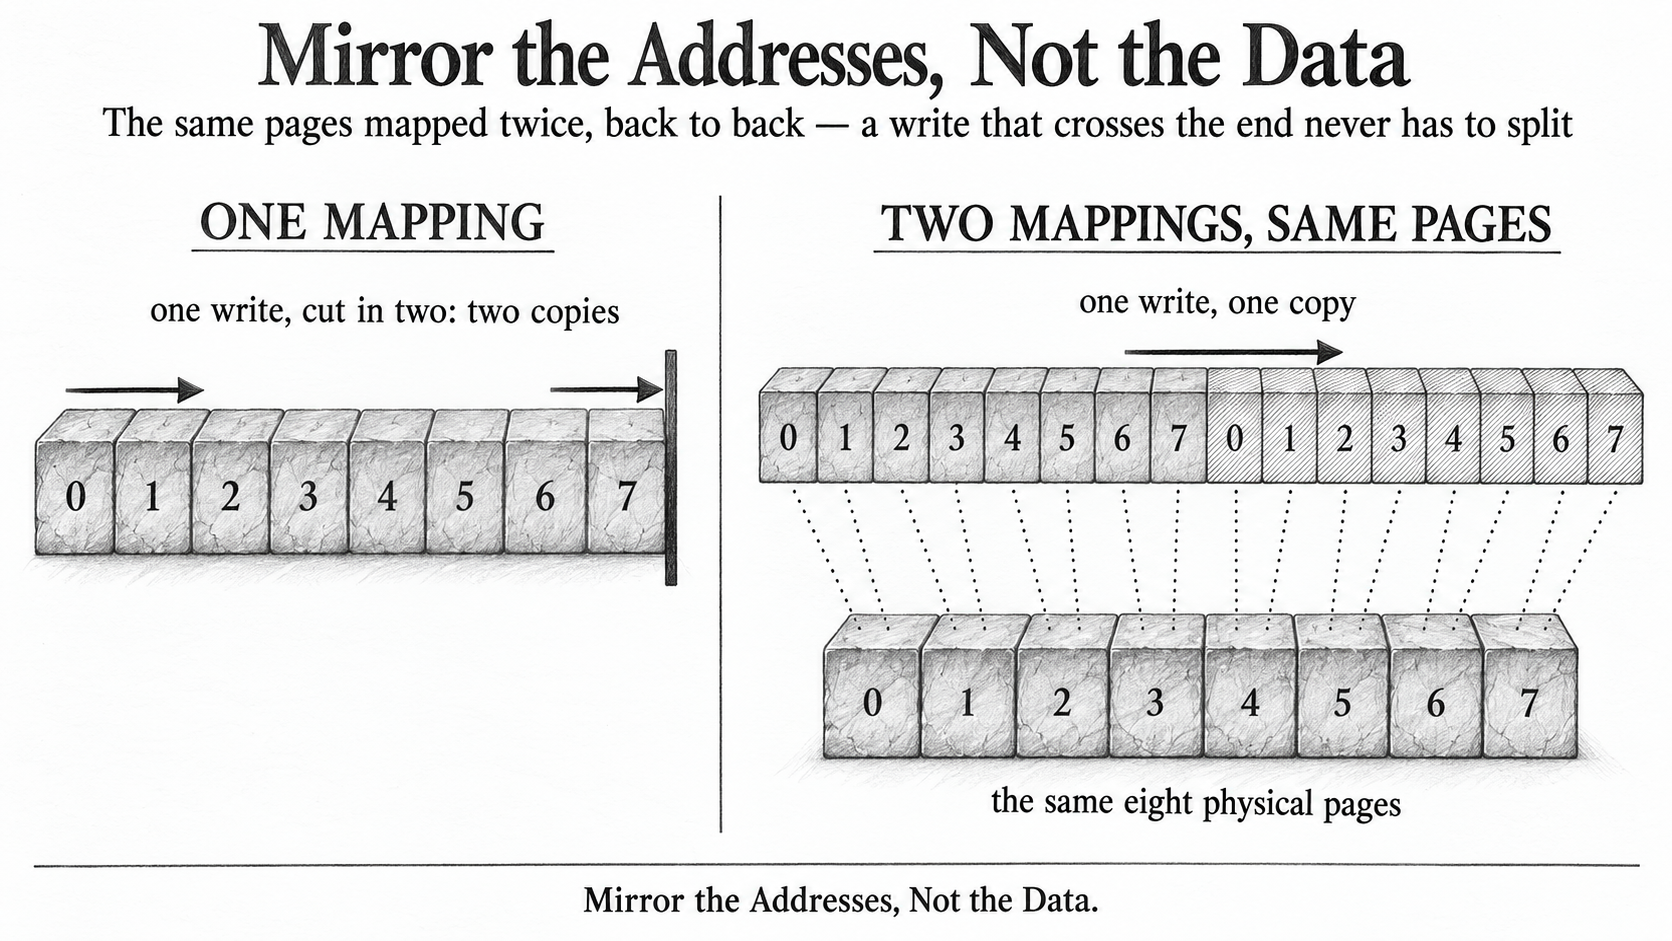
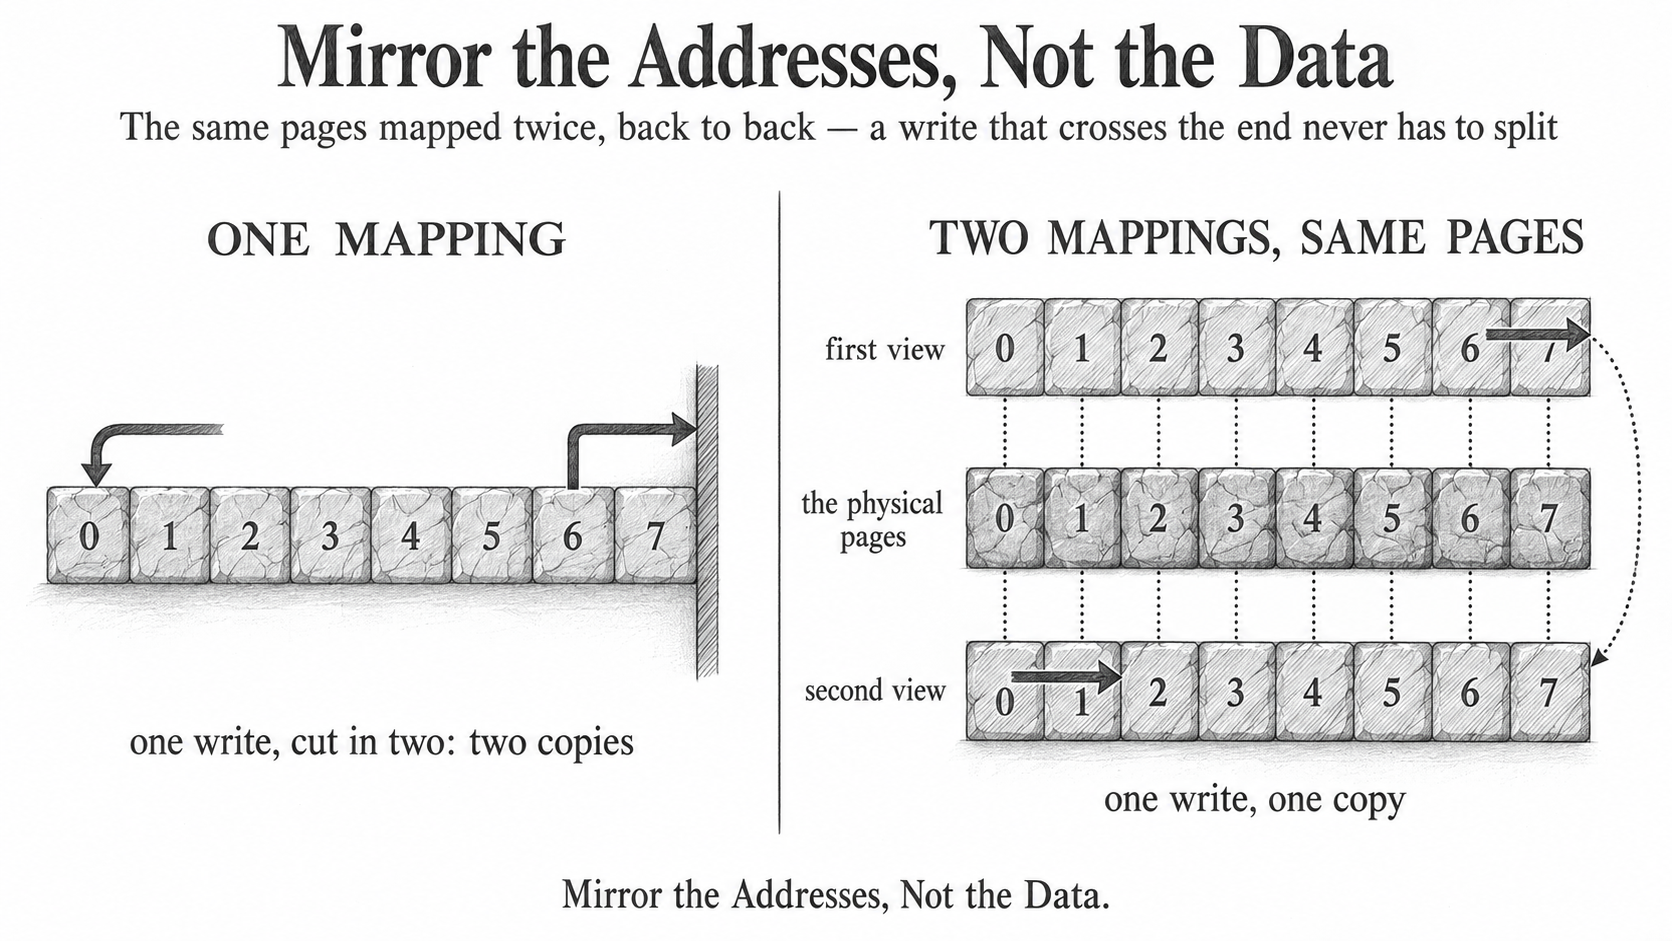
feat: add layer-by-layer overview SVG closing the allocator post; revise queue post; recompress address-mirroring diagram

diff --git a/content/posts/hot-path-memory-allocators.md b/content/posts/hot-path-memory-allocators.md
@@ -182,6 +182,100 @@ vec.emplace_back(1);  // undefined behavior
 
 Two shapes from the sections above are worth keeping as complete, reusable references: a fixed-type pool for objects with independent lifetimes, and an arena for a batch of objects that all get thrown away together. `std::pmr` isn't a third — it solves a type-compatibility problem, not a performance one, and paying a virtual call on every allocation makes it a worse default than either of these for something that's actually meant to sit on a hot path. Reach for it only when the flexibility is worth that specific cost.
 
+Zooming out, every section above is really the same question asked again at a different layer: *where does this storage actually come from, and who's managing it?*
+<svg viewBox="0 0 640 1180" xmlns="http://www.w3.org/2000/svg" role="img" aria-label="From malloc/free's unpredictable latency, through Object Pool's v1 linear scan being superseded by v2's free list, through allocator-environment tuning, to the Arena's bump pointer, to the STL allocator and std::pmr — ending at memory strategy decoupled from container type" style="max-width:100%;height:auto;font-family:ui-sans-serif,system-ui,'Segoe UI',sans-serif">
+  <style>
+    .bg  { fill: #fbfaf7; }
+    .ink { fill: #1c1b18; }
+    .muted { fill: #6b6558; }
+    .title { fill: #1c1b18; font-size: 13px; font-weight: 700; }
+    .boxN  { fill: #ffffff; stroke: #d9d4c7; stroke-width: 1.5; }
+    .boxGone { fill: #f1efe8; stroke: #c8c1ad; stroke-width: 1.2; stroke-dasharray: 4 3; opacity: 0.8; }
+    .boxGo   { fill: #dcecc6; stroke: #6f8f3f; stroke-width: 2; }
+    .edge     { stroke: #b3ab98; stroke-width: 1.6; fill: none; marker-end: url(#ahN2); }
+    .edgeGone { stroke: #b3ab98; stroke-width: 1.4; fill: none; stroke-dasharray: 4 3; opacity: 0.75; marker-end: url(#ahN2); }
+    .edgeGo   { stroke: #6f8f3f; stroke-width: 2; fill: none; marker-end: url(#ahGo2); }
+    @media (prefers-color-scheme: dark) {
+      .bg  { fill: #17161b; }
+      .ink { fill: #e9e7ef; }
+      .muted { fill: #a19caf; }
+      .title { fill: #e9e7ef; }
+      .boxN  { fill: #201f26; stroke: #3a3945; }
+      .boxGone { fill: #2a2933; stroke: #47454f; }
+      .boxGo   { fill: #33421f; stroke: #8fb257; }
+      .edge     { stroke: #55525f; }
+      .edgeGone { stroke: #55525f; }
+      .edgeGo   { stroke: #8fb257; }
+    }
+  </style>
+  <defs>
+    <marker id="ahN2" viewBox="0 0 10 10" refX="9" refY="5" markerWidth="6.5" markerHeight="6.5" orient="auto-start-reverse">
+      <path d="M0 0L10 5L0 10z" fill="#8a8474"/>
+    </marker>
+    <marker id="ahGo2" viewBox="0 0 10 10" refX="9" refY="5" markerWidth="6.5" markerHeight="6.5" orient="auto-start-reverse">
+      <path d="M0 0L10 5L0 10z" fill="#6f8f3f"/>
+    </marker>
+  </defs>
+  <rect class="bg" x="0" y="0" width="640" height="1180" rx="10"/>
+  <text class="title" x="20" y="26">Pool to pmr: the same question — where storage comes from —</text>
+  <text class="title" x="20" y="42">answered five different ways</text>
+  <rect class="boxN" x="180" y="56" width="280" height="56" rx="8"/>
+  <text class="ink" x="320" y="80" font-size="14" font-weight="700" text-anchor="middle">malloc / free</text>
+  <text class="muted" x="320" y="98" font-size="11" text-anchor="middle">unpredictable, variable latency</text>
+  <path class="edge" d="M320,112 L320,154"/>
+  <rect class="boxN" x="190" y="156" width="260" height="50" rx="8"/>
+  <text class="ink" x="320" y="180" font-size="14" font-weight="700" text-anchor="middle">Object Pool</text>
+  <text class="muted" x="320" y="197" font-size="11" text-anchor="middle">§1</text>
+  <path class="edgeGone" d="M300,206 L170,246"/>
+  <path class="edgeGo" d="M340,206 L470,246"/>
+  <rect class="boxGone" x="40" y="248" width="240" height="64" rx="8"/>
+  <text class="muted" x="160" y="272" font-size="12.5" font-weight="700" text-anchor="middle">v1 · linear scan</text>
+  <text class="muted" x="160" y="290" font-size="10.5" text-anchor="middle">O(N) · superseded by v2</text>
+  <rect class="boxGo" x="360" y="248" width="240" height="64" rx="8"/>
+  <text class="ink" x="480" y="272" font-size="12.5" font-weight="700" text-anchor="middle">v2 · explicit free list</text>
+  <text class="ink" x="480" y="290" font-size="10.5" text-anchor="middle">O(N) → O(1)</text>
+  <path class="edgeGo" d="M460,312 L340,354"/>
+  <rect class="boxN" x="170" y="356" width="300" height="64" rx="8"/>
+  <text class="ink" x="320" y="380" font-size="14" font-weight="700" text-anchor="middle">intrusive free list</text>
+  <text class="muted" x="320" y="398" font-size="10.5" text-anchor="middle">next lives inside T, no extra node</text>
+  <path class="edge" d="M320,420 L320,450"/>
+  <rect class="boxN" x="160" y="452" width="320" height="50" rx="8"/>
+  <text class="ink" x="320" y="476" font-size="13.5" font-weight="700" text-anchor="middle">tightening allocator control</text>
+  <text class="muted" x="320" y="493" font-size="11" text-anchor="middle">§2</text>
+  <path class="edge" d="M300,502 L160,542"/>
+  <path class="edge" d="M340,502 L480,542"/>
+  <rect class="boxN" x="40" y="544" width="240" height="64" rx="8"/>
+  <text class="ink" x="160" y="568" font-size="12.5" font-weight="700" text-anchor="middle">glibc tuning</text>
+  <text class="muted" x="160" y="586" font-size="10" text-anchor="middle">M_MMAP_MAX=0 · M_TRIM_THRESHOLD=-1</text>
+  <rect class="boxN" x="360" y="544" width="240" height="64" rx="8"/>
+  <text class="ink" x="480" y="568" font-size="12.5" font-weight="700" text-anchor="middle">mlockall</text>
+  <text class="muted" x="480" y="586" font-size="10" text-anchor="middle">locked into RAM · swappiness=0</text>
+  <path class="edge" d="M180,608 L300,650"/>
+  <path class="edge" d="M460,608 L340,650"/>
+  <rect class="boxN" x="170" y="652" width="300" height="50" rx="8"/>
+  <text class="ink" x="320" y="682" font-size="13.5" font-weight="700" text-anchor="middle">a stable memory environment</text>
+  <path class="edge" d="M320,702 L320,738"/>
+  <rect class="boxN" x="190" y="740" width="260" height="50" rx="8"/>
+  <text class="ink" x="320" y="764" font-size="14" font-weight="700" text-anchor="middle">Arena Allocator</text>
+  <text class="muted" x="320" y="781" font-size="11" text-anchor="middle">§3 · bump-pointer arena</text>
+  <path class="edge" d="M320,790 L320,826"/>
+  <rect class="boxN" x="170" y="828" width="300" height="56" rx="8"/>
+  <text class="ink" x="320" y="852" font-size="14" font-weight="700" text-anchor="middle">bump pointer</text>
+  <text class="muted" x="320" y="870" font-size="10.5" text-anchor="middle">only ever moves forward · O(1) alloc</text>
+  <path class="edge" d="M320,884 L320,920"/>
+  <rect class="boxN" x="150" y="922" width="340" height="50" rx="8"/>
+  <text class="ink" x="320" y="946" font-size="13.5" font-weight="700" text-anchor="middle">STL Allocator</text>
+  <text class="muted" x="320" y="963" font-size="10" text-anchor="middle">custom allocator · compile-time polymorphism</text>
+  <path class="edge" d="M320,972 L320,1008"/>
+  <rect class="boxN" x="190" y="1010" width="260" height="56" rx="8"/>
+  <text class="ink" x="320" y="1034" font-size="14" font-weight="700" text-anchor="middle">std::pmr</text>
+  <text class="muted" x="320" y="1052" font-size="10.5" text-anchor="middle">§4 · run-time polymorphism</text>
+  <path class="edgeGo" d="M320,1066 L320,1100"/>
+  <rect class="boxGo" x="90" y="1102" width="460" height="64" rx="8"/>
+  <text class="ink" x="320" y="1126" font-size="14" font-weight="700" text-anchor="middle">memory strategy decoupled from container type</text>
+  <text class="ink" x="320" y="1144" font-size="10.5" text-anchor="middle">"where memory comes from" and "how it's managed" are independent</text>
+</svg>
+
 ### A Reference Object Pool
 
 Sections 1 and 2 compose cleanly into one self-contained thing: a fixed-type pool with O(1) alloc/dealloc, backed by memory that's pre-allocated, pre-faulted, and locked before the hot path ever runs. One refinement beyond either version in section 1: instead of a separate `free_list_` array, the "next free slot" index lives *inside* the same slot as `T`, so a single allocation touches one cache line instead of two unrelated arrays.

diff --git a/content/posts/lock-free-queue-logger-micro-batching.md b/content/posts/lock-free-queue-logger-micro-batching.md
@@ -172,35 +172,45 @@ Both views are backed by the same pages, so `buf[i]` and `buf[i + N]` are one an
 ║  colorful. Precise and academic.                                 ║
 ║                                                                  ║
 ║  Topic: mapping the same physical memory pages at two            ║
-║  consecutive addresses, so that a write which runs past the end  ║
-║  of a ring buffer simply continues into the second copy instead  ║
-║  of being split in two.                                          ║
+║  consecutive address ranges, so that a write which runs past     ║
+║  the end of a ring buffer simply continues into the second       ║
+║  range and lands on the first pages again, instead of being      ║
+║  split in two.                                                   ║
 ║                                                                  ║
 ║  Main metaphor: a two-panel dissection diagram. Eight identical  ║
 ║  stone floor tiles, numbered 0 to 7, stand for the eight         ║
-║  physical pages of the buffer.                                   ║
+║  physical pages.                                                 ║
 ║                                                                  ║
 ║  Layout: side-by-side comparison (two-panel), left panel headed  ║
 ║  "ONE MAPPING", right panel headed "TWO MAPPINGS, SAME PAGES".   ║
 ║                                                                  ║
 ║  Objects and labels:                                             ║
 ║   - left panel: one row of eight tiles, numbered 0-7, with a     ║
-║     heavy vertical boundary line at the right end of tile 7.     ║
-║     A thick ruled arrow starts on tile 6, runs to the            ║
-║     boundary and stops there; a second, separate arrow           ║
-║     starts again over tile 0 — labeled "one write, cut in        ║
-║     two: two copies"                                             ║
-║   - right panel: a long unbroken row of sixteen tiles —          ║
-║     tiles 0-7, then a second lighter, cross-hatched run of       ║
-║     tiles 0-7 (the mirror). Thin dotted vertical lines drop      ║
-║     from each of the sixteen tiles to a single row of eight      ║
-║     physical tiles underneath, so each physical tile is          ║
-║     joined to exactly two tiles above it. One single long        ║
-║     ruled arrow starts on tile 6 and runs unbroken through       ║
-║     the boundary across the first two mirrored tiles —           ║
+║     heavy vertical wall at the right end of tile 7. A thick      ║
+║     ruled arrow starts on tile 6, runs to the wall and stops;    ║
+║     a second, separate arrow starts again over tile 0 —          ║
+║     labeled "one write, cut in two: two copies"                  ║
+║   - right panel: THREE horizontal rows of eight tiles, stacked   ║
+║     one above the other, each row numbered 0-7 from left to      ║
+║     right. All three rows have the same width and are exactly    ║
+║     aligned, so tile k of every row sits directly above tile     ║
+║     k of the next row.                                           ║
+║       * top row: lightly cross-hatched tiles — labeled           ║
+║         "first view"                                             ║
+║       * middle row: heavy solid stone tiles — labeled            ║
+║         "the physical pages"                                     ║
+║       * bottom row: lightly cross-hatched tiles — labeled        ║
+║         "second view"                                            ║
+║     Straight VERTICAL dotted lines join each tile to the tile    ║
+║     with the SAME number directly above or below it (0 to 0,     ║
+║     1 to 1, ... 7 to 7). No diagonal lines, no crossing lines,   ║
+║     no line ever joins two different numbers.                    ║
+║     One thick ruled arrow starts on tile 6 of the top row and    ║
+║     runs to the right end of that row; a second thick ruled      ║
+║     arrow of the same style runs over tiles 0 and 1 of the       ║
+║     bottom row; a small curved dotted hook joins the end of      ║
+║     the first arrow to the start of the second — together        ║
 ║     labeled "one write, one copy"                                ║
-║   - under the single row of eight physical tiles in the          ║
-║     right panel: labeled "the same eight physical pages"         ║
 ║                                                                  ║
 ║  Title (top, large): "Mirror the Addresses, Not the Data"        ║
 ║  Subtitle: "The same pages mapped twice, back to back — a write  ║
@@ -213,7 +223,7 @@ Both views are backed by the same pages, so `buf[i]` and `buf[i + N]` are one an
 ╚══════════════════════════════════════════════════════════════════╝
 -->
 
-![Two panels. Left: one row of eight numbered stone tiles ending at a wall, with a single write cut into two separate arrows. Right: the same eight tiles mapped twice back to back, dotted lines joining both copies to one row of eight physical pages, and one unbroken arrow crossing the boundary.](/images/lock-free-queue/mirror-the-addresses.png)
+![Two panels. Left: one row of eight numbered stone tiles ending at a wall, with a single write cut into two separate arrows. Right: three aligned rows of the same eight numbered tiles (first view, physical pages, second view) joined by vertical dotted lines between matching numbers, and one write that runs off the end of the first view and continues across the first two tiles of the second view.](/images/lock-free-queue/mirror-the-addresses.png)
 
 **Why the file descriptor?** You can't get this from two `MAP_ANONYMOUS` mappings: each anonymous mapping receives its own fresh, independent pages, and there is nothing for a second mapping to point at. To make two virtual ranges share pages you need a named object both can refer to — an fd here, or a System V shared-memory segment, which plays the same role.
 
